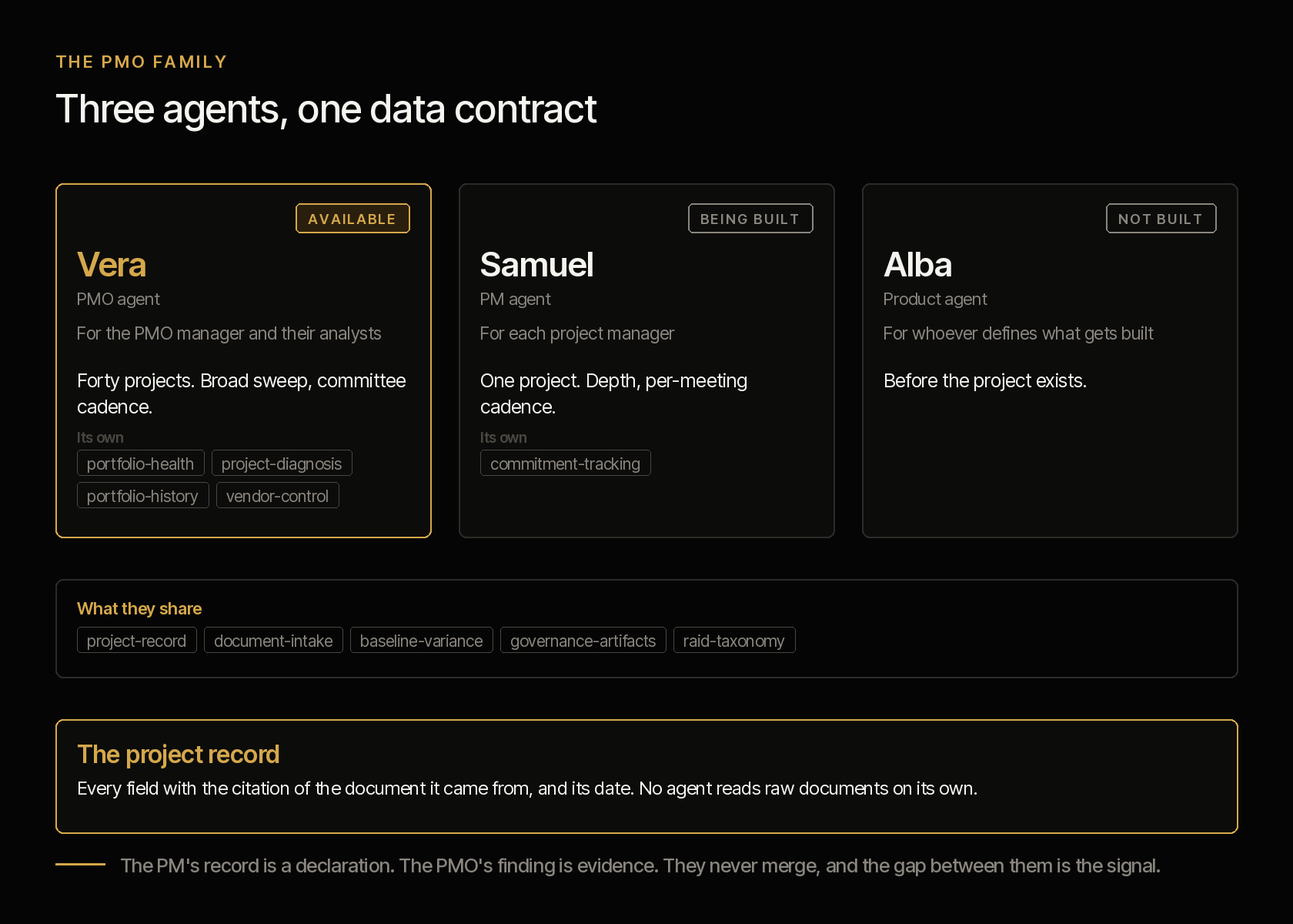
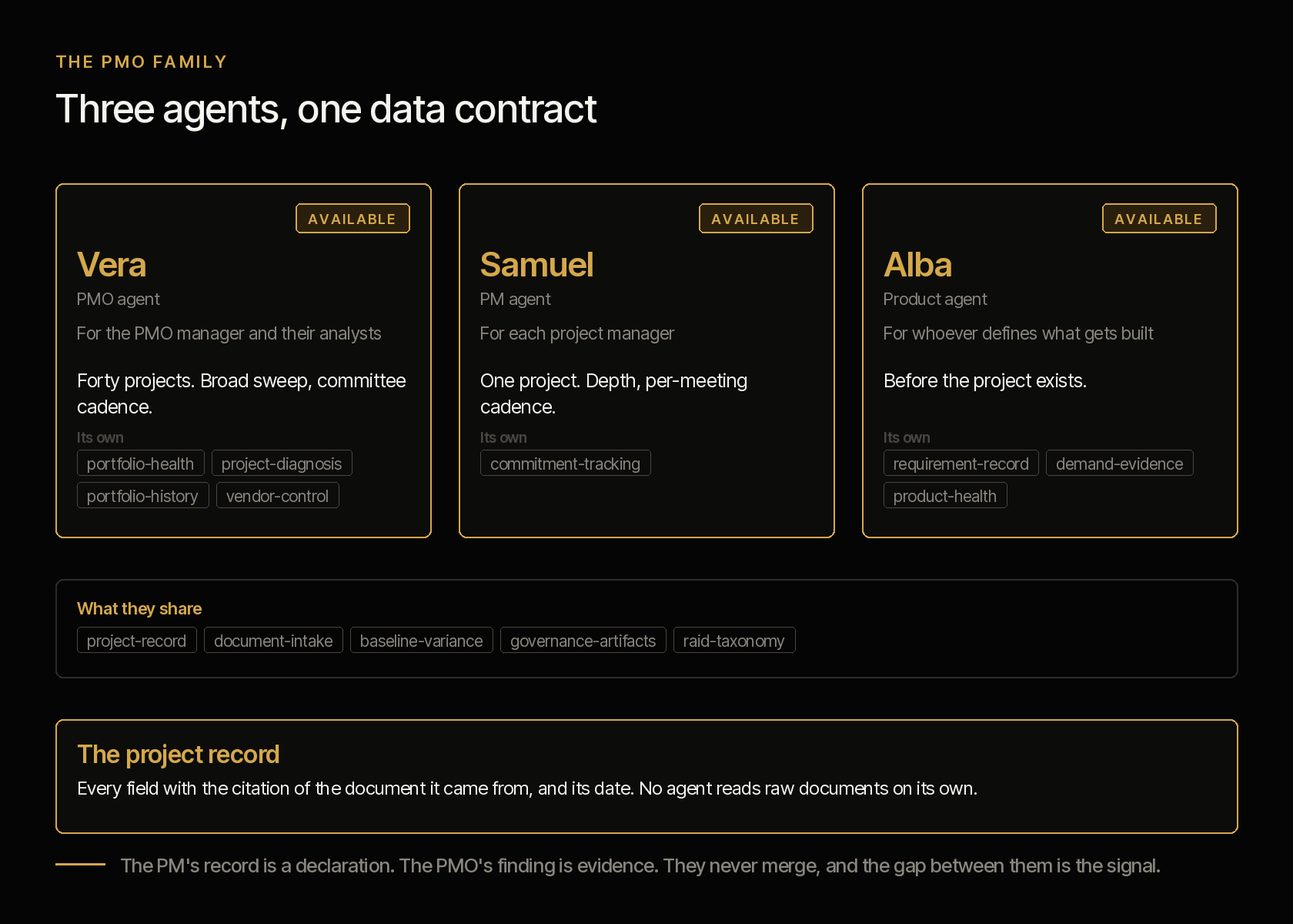
Los tres agentes dejan de aparecer en construcción, empezando por la figura
El estado estaba actualizado en las páginas de cada plugin y no en los tres
sitios donde alguien lo ve primero: la figura de la familia decía DISPONIBLE,
EN CONSTRUCCIÓN y SIN CONSTRUIR; la tabla de estado de docs/agents/README.md
decía que al agente de proyecto le faltaba la superficie de comandos y que el
de producto necesitaba el registro de requerimiento; y el README de Vera decía
que los otros dos venían detrás.

Una figura con el estado escrito dentro es documentación como cualquier otra, y
envejece igual. graficos.py es su fuente, y de ahí sale de nuevo: las otras ocho
piezas salieron idénticas byte a byte, así que el cambio es solo el que se
pidió.

La tabla de estado ahora dice qué se instala y qué le falta a cada uno, y nombra
la deuda que es de los tres a la vez: la extracción nunca se ha corrido, y nada
se ha probado sobre documentación real. Disponible quiere decir que se puede
instalar hoy, no que esté probado en una organización, y las dos cosas quedan
dichas en el mismo sitio.

Claude-Session: https://claude.ai/code/session_01X3q3shEmTnazEdXNaUPDNb

diff --git a/docs/pruebas.html b/docs/pruebas.html
@@ -47,4 +47,4 @@ code{font-family:ui-monospace,SFMono-Regular,Menlo,monospace;font-size:.88em;
   body{background:#fff} .hoja{max-width:none;padding:0}
   h2{page-break-after:avoid} .agente,tr{page-break-inside:avoid}
 }
-</style></head><body><div class="hoja"><p class="ante">Criterio · verificación</p><h1>Qué se probó, y qué no</h1><p class="entrada">Esta página sale de una corrida, no de un resumen escrito a mano. Cada cifra viene de ejecutar el mismo comando que corre <code>scripts/verificar.py</code> y contar las comprobaciones que ese comando imprimió. Con la librería estándar y sin instalar nada.</p><div class="tope"><svg viewBox="0 0 132 132" width="132" height="132" role="img" aria-label="17 de 17 puertas en verde"><circle cx="66.0" cy="66.0" r="54.0" fill="none" stroke="#d8d5cd" stroke-width="10"/><circle cx="66.0" cy="66.0" r="54.0" fill="none" stroke="#3f6b4a" stroke-width="10" stroke-dasharray="339.3 339.3" stroke-linecap="round" transform="rotate(-90 66.0 66.0)"/><text x="66.0" y="64.0" text-anchor="middle" font-size="26" font-weight="600" fill="#111111">17</text><text x="66.0" y="82.0" text-anchor="middle" font-size="11" fill="#6b675f">de 17 puertas</text></svg><div class="cifras"><div class="cifra"><span class="n">385</span><span class="q">comprobaciones</span></div><div class="cifra"><span class="n">3</span><span class="q">corpus, cada uno con su control negativo</span></div><div class="cifra"><span class="n">1.3 s</span><span class="q">la corrida entera</span></div></div></div><h2>En conjunto</h2><p class="entrada">Comprobaciones por dueño. Los tamaños no son comparables entre sí y no pretenden serlo: Vera tiene diecisiete comandos y Rostrum es un servidor de ochocientas líneas. Lo que dice esta gráfica es dónde está puesta la verificación.</p><svg viewBox="0 0 680 182" width="100%" height="182" role="img" aria-label="comprobaciones por agente"><text x="138" y="21" text-anchor="end" font-size="13" fill="#3f4450" font-weight="600">Vera</text><rect x="150" y="8" width="470" height="18" rx="3" fill="#3f6b4a"/><text x="628" y="22" font-size="13" fill="#6b675f">145</text><text x="138" y="55" text-anchor="end" font-size="13" fill="#3f4450" font-weight="600">Samuel</text><rect x="150" y="42" width="259" height="18" rx="3" fill="#3f6b4a"/><text x="417" y="56" font-size="13" fill="#6b675f">80</text><text x="138" y="89" text-anchor="end" font-size="13" fill="#3f4450" font-weight="600">Alba</text><rect x="150" y="76" width="233" height="18" rx="3" fill="#3f6b4a"/><text x="391" y="90" font-size="13" fill="#6b675f">72</text><text x="138" y="123" text-anchor="end" font-size="13" fill="#3f4450" font-weight="600">Rostrum</text><rect x="150" y="110" width="97" height="18" rx="3" fill="#3f6b4a"/><text x="255" y="124" font-size="13" fill="#6b675f">30</text><text x="138" y="157" text-anchor="end" font-size="13" fill="#3f4450" font-weight="600">La familia</text><rect x="150" y="144" width="188" height="18" rx="3" fill="#8a6327"/><text x="346" y="158" font-size="13" fill="#6b675f">58</text></svg><div class="agente"><p class="rol">Agente PMO</p><h3>Vera</h3><p class="que">Del latín <i>verus</i>: lo verdadero. Dice lo que los documentos dicen, no lo que se reporta</p><table><thead><tr><th>Puerta</th><th>Qué prueba</th><th class="n">Comprob.</th><th class="n">Tiempo</th><th></th></tr></thead><tbody><tr><td><code>criterio-pmo/generar.py</code></td><td>El portafolio sintético: seis proyectos, con un control negativo</td><td class="n">—</td><td class="n">54 ms</td><td><span class="sem verde">verde</span></td></tr><tr><td><code>criterio-pmo/pmo.py selftest</code></td><td>La aritmética, la cadencia, la cola y el contraste entre las dos fichas</td><td class="n">49</td><td class="n">19 ms</td><td><span class="sem verde">verde</span></td></tr><tr><td><code>criterio-pmo/texto.py</code></td><td>Leer .docx, .xlsx, .pptx y .eml sin dependencias</td><td class="n">12</td><td class="n">18 ms</td><td><span class="sem verde">verde</span></td></tr><tr><td><code>criterio-pmo/informe.py</code></td><td>El informe: concordancia, formato de cifra, y que ninguna ruta salga en crudo</td><td class="n">15</td><td class="n">16 ms</td><td><span class="sem verde">verde</span></td></tr><tr><td><code>criterio-pmo/grade.py</code></td><td>Vera contra respuestas escritas a mano, incluido el control negativo</td><td class="n">69</td><td class="n">143 ms</td><td><span class="sem verde">verde</span></td></tr></tbody></table></div><div class="agente"><p class="rol">Agente de proyecto</p><h3>Samuel</h3><p class="que">«El que escuchó». Su función central es el compromiso dicho y no cumplido</p><table><thead><tr><th>Puerta</th><th>Qué prueba</th><th class="n">Comprob.</th><th class="n">Tiempo</th><th></th></tr></thead><tbody><tr><td><code>criterio-pm/generar.py</code></td><td>Un proyecto visto desde adentro: dos proyectos, siete minutas</td><td class="n">—</td><td class="n">38 ms</td><td><span class="sem verde">verde</span></td></tr><tr><td><code>criterio-pm/pmo.py selftest</code></td><td>La copia de la aritmética corre sola, sin tocar el otro plugin</td><td class="n">49</td><td class="n">34 ms</td><td><span class="sem verde">verde</span></td></tr><tr><td><code>criterio-pm/texto.py</code></td><td>La copia de la conversión, igual</td><td class="n">12</td><td class="n">23 ms</td><td><span class="sem verde">verde</span></td></tr><tr><td><code>criterio-pm/grade.py</code></td><td>Samuel contra respuestas escritas leyendo las minutas</td><td class="n">19</td><td class="n">35 ms</td><td><span class="sem verde">verde</span></td></tr></tbody></table></div><div class="agente"><p class="rol">Agente de producto</p><h3>Alba</h3><p class="que">El amanecer: la luz que hay antes de que se vea nada. Trabaja antes de que exista el proyecto</p><table><thead><tr><th>Puerta</th><th>Qué prueba</th><th class="n">Comprob.</th><th class="n">Tiempo</th><th></th></tr></thead><tbody><tr><td><code>criterio-product/generar.py</code></td><td>Lo que hay antes del proyecto: dos productos, con un control negativo</td><td class="n">—</td><td class="n">32 ms</td><td><span class="sem verde">verde</span></td></tr><tr><td><code>criterio-product/producto.py selftest</code></td><td>El registro de requerimiento: evidencia, supuestos, trazas y la cifra del negocio</td><td class="n">44</td><td class="n">22 ms</td><td><span class="sem verde">verde</span></td></tr><tr><td><code>criterio-product/grade.py</code></td><td>Alba contra respuestas escritas leyendo la definición y las entrevistas</td><td class="n">28</td><td class="n">60 ms</td><td><span class="sem verde">verde</span></td></tr></tbody></table></div><div class="agente"><p class="rol">El servidor</p><h3>Rostrum</h3><p class="que">Una tribuna. Sostiene lo que ya está escrito, donde el equipo puede leerlo. No decide nada, y por eso no lleva nombre de persona</p><table><thead><tr><th>Puerta</th><th>Qué prueba</th><th class="n">Comprob.</th><th class="n">Tiempo</th><th></th></tr></thead><tbody><tr><td><code>criterio-pmo/servidor.py</code></td><td>Rostrum: rutas, que no se salga de la carpeta, y que no escriba la ficha</td><td class="n">30</td><td class="n">554 ms</td><td><span class="sem verde">verde</span></td></tr></tbody></table></div><div class="agente"><p class="rol">Lo que los tres comparten</p><h3>La familia</h3><p class="que">Que la documentación y el código digan lo mismo, que el marketplace esté completo, y que las copias compartidas no se hayan separado</p><table><thead><tr><th>Puerta</th><th>Qué prueba</th><th class="n">Comprob.</th><th class="n">Tiempo</th><th></th></tr></thead><tbody><tr><td><code>tests/coherencia.py</code></td><td>Que la documentación y el código digan lo mismo</td><td class="n">46</td><td class="n">127 ms</td><td><span class="sem verde">verde</span></td></tr><tr><td><code>scripts/validate_plugins.py</code></td><td>Que el marketplace y cada plugin estén completos</td><td class="n">—</td><td class="n">36 ms</td><td><span class="sem verde">verde</span></td></tr><tr><td><code>scripts/sincronizar.py</code></td><td>Que las copias compartidas no se hayan separado</td><td class="n">—</td><td class="n">31 ms</td><td><span class="sem verde">verde</span></td></tr><tr><td><code>scripts/resultados.py</code></td><td>Que la página de resultados no deje una puerta sin dueño</td><td class="n">12</td><td class="n">21 ms</td><td><span class="sem verde">verde</span></td></tr></tbody></table></div><h2>Lo que esta corrida no cubre</h2><p class="entrada">Va aquí y no en un anexo. Una página de resultados que solo dice lo que pasó es publicidad; lo que la vuelve auditable es lo que dice que todavía no se sabe.</p><div class="bloque"><ul><li><b>La extracción nunca se ha corrido.</b> Los tres corpus siembran el estado desde sus respuestas de referencia, así que la cadena documento → modelo → ficha no se ha ejercitado. <code>grade.py --fichas</code> y <code>grade.py --registros</code> existen para eso y no se han ejecutado.</li><li><b>Ningún comando se ha corrido con un agente de verdad.</b> Los 30 comandos están verificados como estructura —existen, declaran, y no invocan un skill que no esté—, y eso no es lo mismo que haberlos ejercitado.</li><li><b>Nada se ha corrido sobre la documentación real de una organización.</b> Todo el material es sintético y construido desde cero. Es la diferencia que protege a quien instale esto: <b>construido y verificado sobre corpus, no probado sobre documentación real.</b></li><li><b>Lo que produce el modelo no lo mide un calificador determinista.</b> Convertir ocho entrevistas en temas con sus citas, redactar un acta o un informe es trabajo del modelo. Lo que se verifica aquí es la aritmética de la que salen sus cifras, y la estructura de lo que se le pide.</li></ul></div><div class="pie"><p>Corrida del 2026-09-26 · commit <code>fecf01c</code> · material sintético regenerado en esta corrida.</p><p>Reproducirlo: <code>python3 scripts/resultados.py</code>. El detalle de qué prueba cada corpus y qué no, en las tres páginas de evidencia bajo <code>tests/</code>.</p></div></div></body></html>
+</style></head><body><div class="hoja"><p class="ante">Criterio · verificación</p><h1>Qué se probó, y qué no</h1><p class="entrada">Esta página sale de una corrida, no de un resumen escrito a mano. Cada cifra viene de ejecutar el mismo comando que corre <code>scripts/verificar.py</code> y contar las comprobaciones que ese comando imprimió. Con la librería estándar y sin instalar nada.</p><div class="tope"><svg viewBox="0 0 132 132" width="132" height="132" role="img" aria-label="17 de 17 puertas en verde"><circle cx="66.0" cy="66.0" r="54.0" fill="none" stroke="#d8d5cd" stroke-width="10"/><circle cx="66.0" cy="66.0" r="54.0" fill="none" stroke="#3f6b4a" stroke-width="10" stroke-dasharray="339.3 339.3" stroke-linecap="round" transform="rotate(-90 66.0 66.0)"/><text x="66.0" y="64.0" text-anchor="middle" font-size="26" font-weight="600" fill="#111111">17</text><text x="66.0" y="82.0" text-anchor="middle" font-size="11" fill="#6b675f">de 17 puertas</text></svg><div class="cifras"><div class="cifra"><span class="n">385</span><span class="q">comprobaciones</span></div><div class="cifra"><span class="n">3</span><span class="q">corpus, cada uno con su control negativo</span></div><div class="cifra"><span class="n">1.3 s</span><span class="q">la corrida entera</span></div></div></div><h2>En conjunto</h2><p class="entrada">Comprobaciones por dueño. Los tamaños no son comparables entre sí y no pretenden serlo: Vera tiene diecisiete comandos y Rostrum es un servidor de ochocientas líneas. Lo que dice esta gráfica es dónde está puesta la verificación.</p><svg viewBox="0 0 680 182" width="100%" height="182" role="img" aria-label="comprobaciones por agente"><text x="138" y="21" text-anchor="end" font-size="13" fill="#3f4450" font-weight="600">Vera</text><rect x="150" y="8" width="470" height="18" rx="3" fill="#3f6b4a"/><text x="628" y="22" font-size="13" fill="#6b675f">145</text><text x="138" y="55" text-anchor="end" font-size="13" fill="#3f4450" font-weight="600">Samuel</text><rect x="150" y="42" width="259" height="18" rx="3" fill="#3f6b4a"/><text x="417" y="56" font-size="13" fill="#6b675f">80</text><text x="138" y="89" text-anchor="end" font-size="13" fill="#3f4450" font-weight="600">Alba</text><rect x="150" y="76" width="233" height="18" rx="3" fill="#3f6b4a"/><text x="391" y="90" font-size="13" fill="#6b675f">72</text><text x="138" y="123" text-anchor="end" font-size="13" fill="#3f4450" font-weight="600">Rostrum</text><rect x="150" y="110" width="97" height="18" rx="3" fill="#3f6b4a"/><text x="255" y="124" font-size="13" fill="#6b675f">30</text><text x="138" y="157" text-anchor="end" font-size="13" fill="#3f4450" font-weight="600">La familia</text><rect x="150" y="144" width="188" height="18" rx="3" fill="#8a6327"/><text x="346" y="158" font-size="13" fill="#6b675f">58</text></svg><div class="agente"><p class="rol">Agente PMO</p><h3>Vera</h3><p class="que">Del latín <i>verus</i>: lo verdadero. Dice lo que los documentos dicen, no lo que se reporta</p><table><thead><tr><th>Puerta</th><th>Qué prueba</th><th class="n">Comprob.</th><th class="n">Tiempo</th><th></th></tr></thead><tbody><tr><td><code>criterio-pmo/generar.py</code></td><td>El portafolio sintético: seis proyectos, con un control negativo</td><td class="n">—</td><td class="n">58 ms</td><td><span class="sem verde">verde</span></td></tr><tr><td><code>criterio-pmo/pmo.py selftest</code></td><td>La aritmética, la cadencia, la cola y el contraste entre las dos fichas</td><td class="n">49</td><td class="n">20 ms</td><td><span class="sem verde">verde</span></td></tr><tr><td><code>criterio-pmo/texto.py</code></td><td>Leer .docx, .xlsx, .pptx y .eml sin dependencias</td><td class="n">12</td><td class="n">20 ms</td><td><span class="sem verde">verde</span></td></tr><tr><td><code>criterio-pmo/informe.py</code></td><td>El informe: concordancia, formato de cifra, y que ninguna ruta salga en crudo</td><td class="n">15</td><td class="n">17 ms</td><td><span class="sem verde">verde</span></td></tr><tr><td><code>criterio-pmo/grade.py</code></td><td>Vera contra respuestas escritas a mano, incluido el control negativo</td><td class="n">69</td><td class="n">158 ms</td><td><span class="sem verde">verde</span></td></tr></tbody></table></div><div class="agente"><p class="rol">Agente de proyecto</p><h3>Samuel</h3><p class="que">«El que escuchó». Su función central es el compromiso dicho y no cumplido</p><table><thead><tr><th>Puerta</th><th>Qué prueba</th><th class="n">Comprob.</th><th class="n">Tiempo</th><th></th></tr></thead><tbody><tr><td><code>criterio-pm/generar.py</code></td><td>Un proyecto visto desde adentro: dos proyectos, siete minutas</td><td class="n">—</td><td class="n">42 ms</td><td><span class="sem verde">verde</span></td></tr><tr><td><code>criterio-pm/pmo.py selftest</code></td><td>La copia de la aritmética corre sola, sin tocar el otro plugin</td><td class="n">49</td><td class="n">38 ms</td><td><span class="sem verde">verde</span></td></tr><tr><td><code>criterio-pm/texto.py</code></td><td>La copia de la conversión, igual</td><td class="n">12</td><td class="n">25 ms</td><td><span class="sem verde">verde</span></td></tr><tr><td><code>criterio-pm/grade.py</code></td><td>Samuel contra respuestas escritas leyendo las minutas</td><td class="n">19</td><td class="n">40 ms</td><td><span class="sem verde">verde</span></td></tr></tbody></table></div><div class="agente"><p class="rol">Agente de producto</p><h3>Alba</h3><p class="que">El amanecer: la luz que hay antes de que se vea nada. Trabaja antes de que exista el proyecto</p><table><thead><tr><th>Puerta</th><th>Qué prueba</th><th class="n">Comprob.</th><th class="n">Tiempo</th><th></th></tr></thead><tbody><tr><td><code>criterio-product/generar.py</code></td><td>Lo que hay antes del proyecto: dos productos, con un control negativo</td><td class="n">—</td><td class="n">35 ms</td><td><span class="sem verde">verde</span></td></tr><tr><td><code>criterio-product/producto.py selftest</code></td><td>El registro de requerimiento: evidencia, supuestos, trazas y la cifra del negocio</td><td class="n">44</td><td class="n">25 ms</td><td><span class="sem verde">verde</span></td></tr><tr><td><code>criterio-product/grade.py</code></td><td>Alba contra respuestas escritas leyendo la definición y las entrevistas</td><td class="n">28</td><td class="n">69 ms</td><td><span class="sem verde">verde</span></td></tr></tbody></table></div><div class="agente"><p class="rol">El servidor</p><h3>Rostrum</h3><p class="que">Una tribuna. Sostiene lo que ya está escrito, donde el equipo puede leerlo. No decide nada, y por eso no lleva nombre de persona</p><table><thead><tr><th>Puerta</th><th>Qué prueba</th><th class="n">Comprob.</th><th class="n">Tiempo</th><th></th></tr></thead><tbody><tr><td><code>criterio-pmo/servidor.py</code></td><td>Rostrum: rutas, que no se salga de la carpeta, y que no escriba la ficha</td><td class="n">30</td><td class="n">556 ms</td><td><span class="sem verde">verde</span></td></tr></tbody></table></div><div class="agente"><p class="rol">Lo que los tres comparten</p><h3>La familia</h3><p class="que">Que la documentación y el código digan lo mismo, que el marketplace esté completo, y que las copias compartidas no se hayan separado</p><table><thead><tr><th>Puerta</th><th>Qué prueba</th><th class="n">Comprob.</th><th class="n">Tiempo</th><th></th></tr></thead><tbody><tr><td><code>tests/coherencia.py</code></td><td>Que la documentación y el código digan lo mismo</td><td class="n">46</td><td class="n">129 ms</td><td><span class="sem verde">verde</span></td></tr><tr><td><code>scripts/validate_plugins.py</code></td><td>Que el marketplace y cada plugin estén completos</td><td class="n">—</td><td class="n">37 ms</td><td><span class="sem verde">verde</span></td></tr><tr><td><code>scripts/sincronizar.py</code></td><td>Que las copias compartidas no se hayan separado</td><td class="n">—</td><td class="n">31 ms</td><td><span class="sem verde">verde</span></td></tr><tr><td><code>scripts/resultados.py</code></td><td>Que la página de resultados no deje una puerta sin dueño</td><td class="n">12</td><td class="n">22 ms</td><td><span class="sem verde">verde</span></td></tr></tbody></table></div><h2>Lo que esta corrida no cubre</h2><p class="entrada">Va aquí y no en un anexo. Una página de resultados que solo dice lo que pasó es publicidad; lo que la vuelve auditable es lo que dice que todavía no se sabe.</p><div class="bloque"><ul><li><b>La extracción nunca se ha corrido.</b> Los tres corpus siembran el estado desde sus respuestas de referencia, así que la cadena documento → modelo → ficha no se ha ejercitado. <code>grade.py --fichas</code> y <code>grade.py --registros</code> existen para eso y no se han ejecutado.</li><li><b>Ningún comando se ha corrido con un agente de verdad.</b> Los 30 comandos están verificados como estructura —existen, declaran, y no invocan un skill que no esté—, y eso no es lo mismo que haberlos ejercitado.</li><li><b>Nada se ha corrido sobre la documentación real de una organización.</b> Todo el material es sintético y construido desde cero. Es la diferencia que protege a quien instale esto: <b>construido y verificado sobre corpus, no probado sobre documentación real.</b></li><li><b>Lo que produce el modelo no lo mide un calificador determinista.</b> Convertir ocho entrevistas en temas con sus citas, redactar un acta o un informe es trabajo del modelo. Lo que se verifica aquí es la aritmética de la que salen sus cifras, y la estructura de lo que se le pide.</li></ul></div><div class="pie"><p>Corrida del 2026-09-26 · commit <code>1ec4799</code> · material sintético regenerado en esta corrida.</p><p>Reproducirlo: <code>python3 scripts/resultados.py</code>. El detalle de qué prueba cada corpus y qué no, en las tres páginas de evidencia bajo <code>tests/</code>.</p></div></div></body></html>

diff --git a/docs/img/graficos.py b/docs/img/graficos.py
@@ -270,7 +270,7 @@ SKILLS_COMPARTIDOS = ['project-record', 'document-intake', 'baseline-variance',
                       'governance-artifacts', 'raid-taxonomy']
 SKILLS_PMO = ['portfolio-health', 'project-diagnosis', 'portfolio-history', 'vendor-control']
 SKILLS_PM = ['commitment-tracking']
-SKILLS_PROD = []
+SKILLS_PROD = ['requirement-record', 'demand-evidence', 'product-health']
 
 
 # ══════════════════════════════════════════════════════════════════ emblemas
@@ -351,9 +351,13 @@ def familia(t):
     # tres columnas
     col = (W - 2 * M - 2 * 36) // 3
     agentes = [
+        # Los tres disponibles. La insignia dice qué se puede instalar hoy, no qué tan
+        # probado está: eso lo dice el estado de cada plugin y la página de pruebas, con
+        # la distinción que importa — construido y verificado sobre corpus, no probado
+        # sobre documentación real.
         (t['n1'], t['ag1'], t['ag1_para'], t['ag1_desc'], t['disponible'], True, SKILLS_PMO),
-        (t['n2'], t['ag2'], t['ag2_para'], t['ag2_desc'], t['construccion'], False, SKILLS_PM),
-        (t['n3'], t['ag3'], t['ag3_para'], t['ag3_desc'], t['sin_construir'], False, SKILLS_PROD),
+        (t['n2'], t['ag2'], t['ag2_para'], t['ag2_desc'], t['disponible'], True, SKILLS_PM),
+        (t['n3'], t['ag3'], t['ag3_para'], t['ag3_desc'], t['disponible'], True, SKILLS_PROD),
     ]
     TOP, ALTO = 238, 460
     for i, (nombre, rol, para, desc, estado, activo, propios) in enumerate(agentes):

diff --git a/docs/agents/README.md b/docs/agents/README.md
@@ -201,15 +201,25 @@ rompe primero si se intenta, y en qué orden.
 
 ## Estado
 
-| Agente | Estado |
-|---|---|
-| PMO | Disponible. La clase A está cerrada; falta la mitad de la B |
-| Project Manager | En construcción. El método existe, la superficie de comandos no |
-| Product Manager | Sin construir. Requiere primero el registro de requerimiento |
+**Los tres están construidos y se pueden instalar hoy**, y los tres tienen la misma deuda,
+que conviene no esconder: **verificados sobre corpus sintético, no probados sobre la
+documentación real de una organización.**
 
-La corrida que sostiene estos estados, con lo que prueba y lo que no, está en
-[`tests/criterio-pmo/EVIDENCIA.md`](../../tests/criterio-pmo/EVIDENCIA.md). La quinta decisión
-de la tabla siguiente salió de ahí y no de una conversación.
+| Agente | Se instala | Qué falta |
+|---|---|---|
+| Vera · PMO | `criterio-pmo` · 17 comandos, 10 skills | La mitad de la clase B |
+| Samuel · Project Manager | `criterio-pm` · 6 comandos, 8 skills | El primer borrador del plan y de la WBS |
+| Alba · Product Manager | `criterio-product` · 7 comandos, 12 skills | El análisis de canibalización |
+| Rostrum · el servidor | Dentro de `criterio-pmo` | — |
+
+Y una deuda que es de los tres a la vez: **la extracción nunca se ha corrido.** Los tres
+corpus siembran el estado desde sus respuestas de referencia, así que la cadena documento →
+modelo → ficha no se ha ejercitado.
+
+La corrida que sostiene estos estados, con lo que prueba y lo que no, está en las tres
+páginas de evidencia bajo [`tests/`](../../tests/) y, dibujada, en
+[`docs/pruebas.html`](../pruebas.html). La quinta decisión de la tabla siguiente salió de
+ahí y no de una conversación.
 
 ---
 

diff --git a/plugins/criterio-pmo/README.es.md b/plugins/criterio-pmo/README.es.md
@@ -18,8 +18,10 @@ nombre apunta a lo que hace: **Vera** —de *verus*, lo verdadero— dice lo que
 dicen y no lo que se reporta; **Samuel** —«el que escuchó»— recuerda el viernes lo que se
 dijo en la reunión; **Alba** trabaja antes de que amanezca el proyecto.
 
-**Vera está disponible hoy**; los otros dos vienen detrás y comparten el mismo contrato
-de datos.
+**Los tres se instalan hoy**, cada uno con su propio plugin, y comparten el mismo contrato
+de datos. Los tres tienen también la misma deuda, y está escrita en su página: construidos y
+verificados sobre corpus sintético, **no probados todavía sobre la documentación real de una
+organización.**
 
 **Samuel**, el agente del gerente de proyecto, no va a las reuniones — el gerente va. Lo que hace es que el gerente llegue
 con la semana preparada: la agenda armada antes, la minuta redactada después, el plan al día

diff --git a/plugins/criterio-pmo/README.md b/plugins/criterio-pmo/README.md
@@ -20,7 +20,10 @@ documents say rather than what gets reported; **Samuel** — "he who heard" — 
 Friday what was said in the meeting; **Alba** — daybreak — works before the project
 dawns.
 
-**Vera is available today**; the other two come behind it and share the same data contract.
+**All three install today**, each with its own plugin, and they share the same data
+contract. All three also carry the same debt, written on their own page: built and
+verified over a synthetic corpus, **not yet tested against a real organisation's
+documentation.**
 
 **Samuel**, the project manager's agent, does not attend the meetings — the manager does. What it does is let the
 manager arrive with the week prepared: the agenda built beforehand, the minutes drafted
